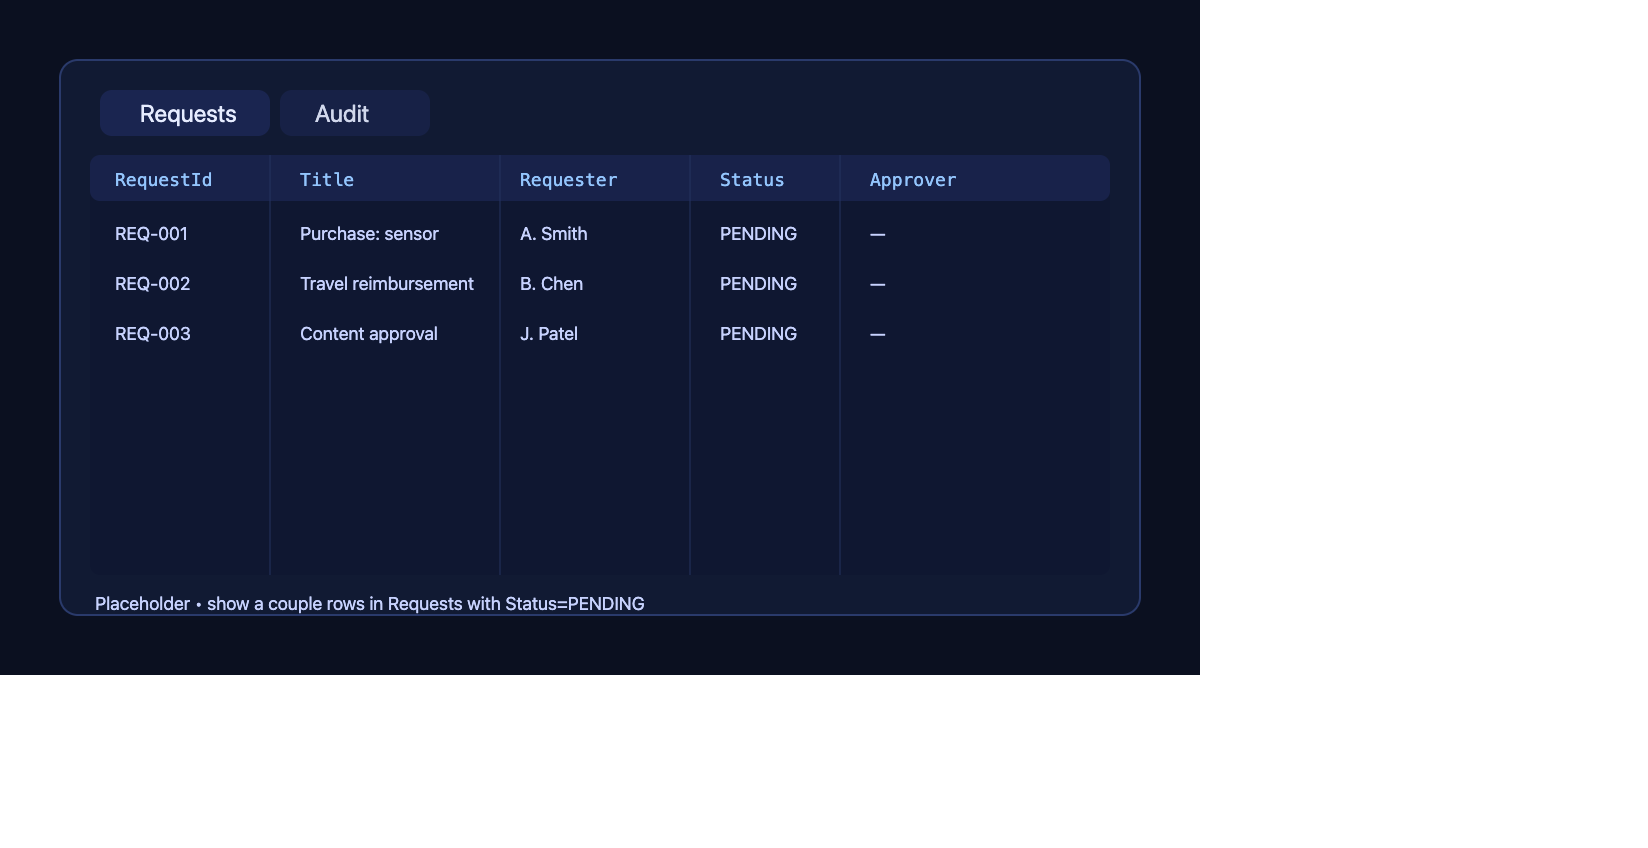
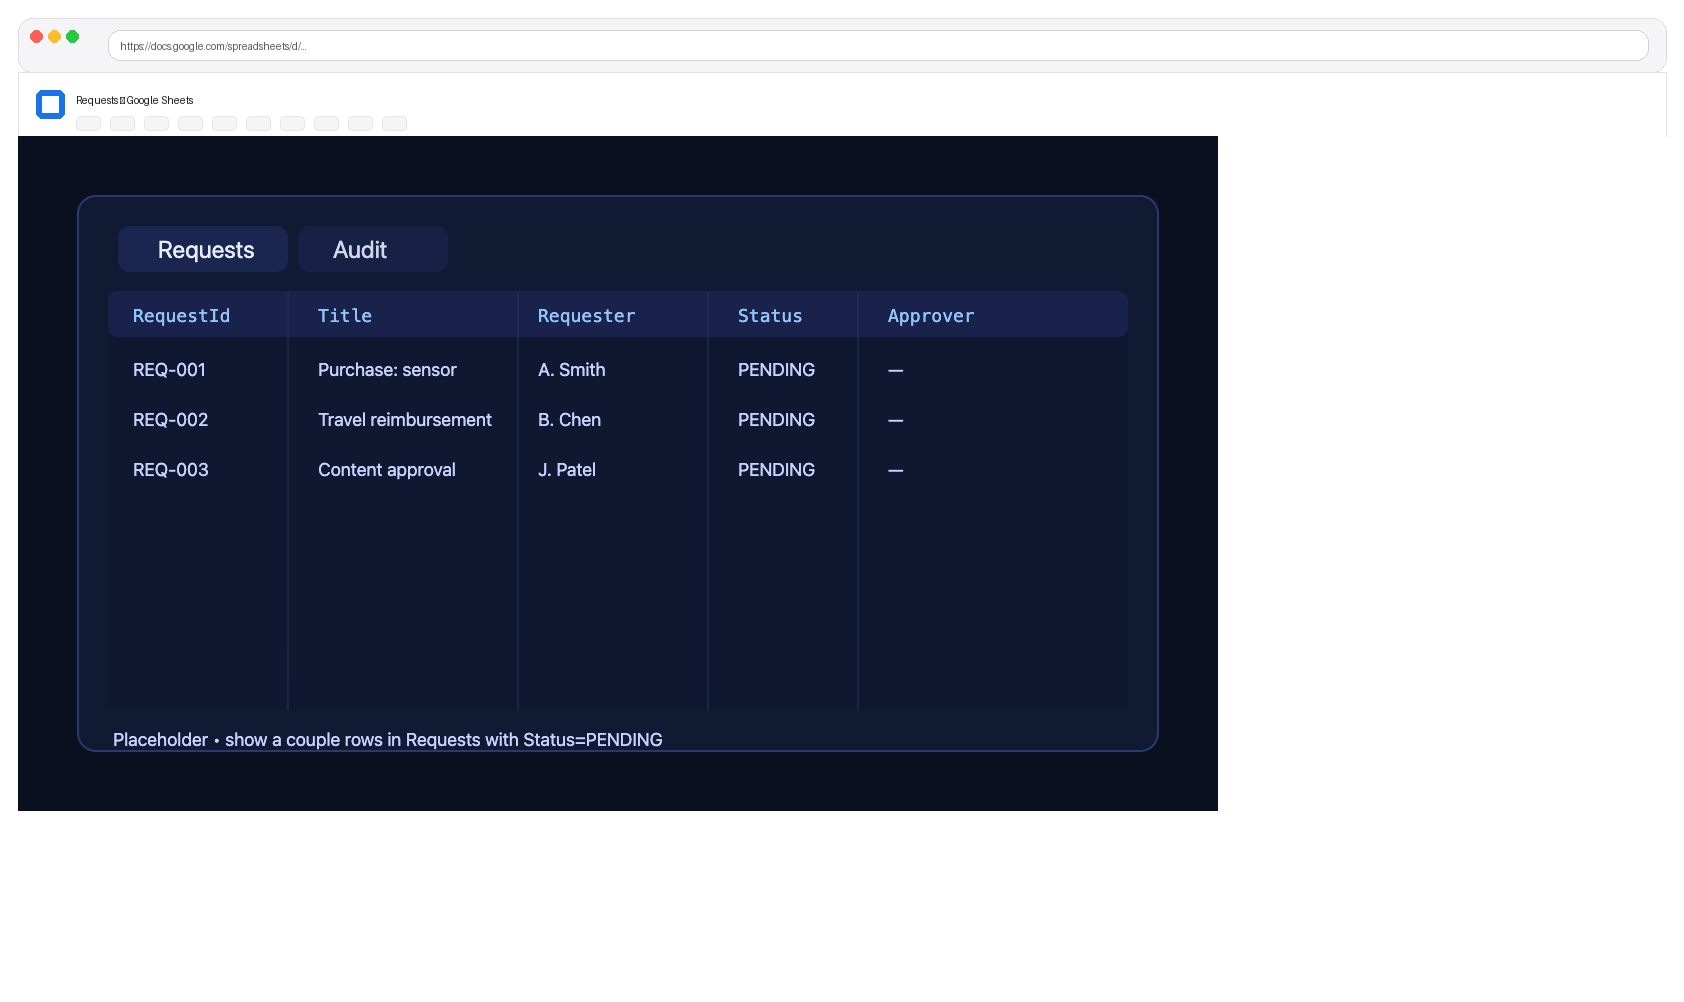
Generate non-placeholder screenshot set (auto)

diff --git a/scripts/generate_realish_screenshots.py b/scripts/generate_realish_screenshots.py
@@ -1,0 +1,147 @@
+#!/usr/bin/env python3
+"""Generate "real-ish" screenshot PNGs from the placeholder PNGs.
+
+Goal: replace docs/screenshots/*.png (which may be placeholder copies) with
+non-identical images that look more like real screenshots, without requiring
+Google login or manual capture.
+
+Approach:
+- Take each placeholder image from docs/screenshots/png/<name>.png
+- Add a simple "browser" chrome + fake Google Sheets toolbar header
+- Write to docs/screenshots/<name>.png
+
+This intentionally makes the top-level PNG hashes differ from the placeholder
+PNGs so `scripts/check_screenshots.py` passes.
+
+Usage:
+  python3 scripts/generate_realish_screenshots.py
+
+Notes:
+- If you later capture true screenshots from Google Sheets, you can overwrite
+  docs/screenshots/<name>.png directly (see REAL_SCREENSHOTS_GUIDE.md).
+"""
+
+from __future__ import annotations
+
+from dataclasses import dataclass
+from pathlib import Path
+
+from PIL import Image, ImageDraw, ImageFont
+
+ROOT = Path(__file__).resolve().parents[1]
+TOP_DIR = ROOT / "docs" / "screenshots"
+PLACEHOLDER_DIR = TOP_DIR / "png"
+
+
+@dataclass(frozen=True)
+class Shot:
+    filename: str
+    sheet_title: str
+
+
+SHOTS: list[Shot] = [
+    Shot("01-menu.png", "Sheets Approvals (Demo)"),
+    Shot("02-requests-pending.png", "Requests"),
+    Shot("03-approved-row.png", "Requests"),
+    Shot("04-audit-entry.png", "Audit"),
+    Shot("05-reapproval-required.png", "Requests"),
+    Shot("06-help-sidebar.png", "Docs / Help"),
+]
+
+
+def main() -> int:
+    TOP_DIR.mkdir(parents=True, exist_ok=True)
+
+    # Fonts: use default bitmap font to avoid system dependencies.
+    font = ImageFont.load_default()
+
+    wrote = 0
+    missing = 0
+
+    for shot in SHOTS:
+        in_path = PLACEHOLDER_DIR / shot.filename
+        out_path = TOP_DIR / shot.filename
+
+        if not in_path.exists():
+            print(f"MISSING: {in_path.relative_to(ROOT)}")
+            missing += 1
+            continue
+
+        base = Image.open(in_path).convert("RGBA")
+
+        # Chrome sizes (in pixels)
+        pad = 18
+        browser_h = 54
+        sheets_h = 64
+        header_h = browser_h + sheets_h
+
+        w, h = base.size
+        canvas = Image.new("RGBA", (w + pad * 2, h + header_h + pad * 2), (255, 255, 255, 255))
+        draw = ImageDraw.Draw(canvas)
+
+        # Browser chrome background
+        draw.rounded_rectangle(
+            (pad, pad, pad + w, pad + browser_h),
+            radius=14,
+            fill=(245, 245, 247, 255),
+            outline=(220, 220, 225, 255),
+            width=1,
+        )
+
+        # macOS traffic-light dots
+        dot_y = pad + 18
+        for i, col in enumerate([(255, 95, 86, 255), (255, 189, 46, 255), (39, 201, 63, 255)]):
+            cx = pad + 18 + i * 18
+            draw.ellipse((cx - 6, dot_y - 6, cx + 6, dot_y + 6), fill=col, outline=None)
+
+        # Address bar
+        ab_x0 = pad + 90
+        ab_x1 = pad + w - 18
+        ab_y0 = pad + 12
+        ab_y1 = pad + browser_h - 12
+        draw.rounded_rectangle(
+            (ab_x0, ab_y0, ab_x1, ab_y1),
+            radius=12,
+            fill=(255, 255, 255, 255),
+            outline=(210, 210, 215, 255),
+            width=1,
+        )
+        addr = "https://docs.google.com/spreadsheets/d/…"
+        draw.text((ab_x0 + 12, ab_y0 + 10), addr, fill=(90, 90, 95, 255), font=font)
+
+        # Fake Sheets toolbar area
+        y2 = pad + browser_h
+        draw.rectangle((pad, y2, pad + w, y2 + sheets_h), fill=(255, 255, 255, 255), outline=(225, 225, 230, 255))
+        # Green Sheets icon
+        icon_x = pad + 18
+        icon_y = y2 + 18
+        draw.rounded_rectangle((icon_x, icon_y, icon_x + 28, icon_y + 28), radius=6, fill=(26, 115, 232, 255))
+        draw.rectangle((icon_x + 6, icon_y + 6, icon_x + 22, icon_y + 22), fill=(255, 255, 255, 255))
+
+        title = f"{shot.sheet_title} — Google Sheets"
+        draw.text((icon_x + 40, y2 + 22), title, fill=(25, 25, 28, 255), font=font)
+
+        # Subtle toolbar hint line (buttons)
+        tool_y = y2 + 44
+        for i in range(10):
+            x0 = icon_x + 40 + i * 34
+            draw.rounded_rectangle((x0, tool_y, x0 + 24, tool_y + 14), radius=4, fill=(245, 245, 247, 255), outline=(230, 230, 235, 255))
+
+        # Paste the content image
+        canvas.alpha_composite(base, (pad, pad + header_h))
+
+        # Save PNG
+        canvas.convert("RGB").save(out_path, format="PNG", optimize=True)
+        wrote += 1
+        print(f"Wrote: {out_path.relative_to(ROOT)}")
+
+    if missing:
+        print(f"\nDone (with missing inputs). wrote={wrote}, missing={missing}")
+        return 2
+
+    print(f"\nDone. wrote={wrote}")
+    return 0
+
+
+if __name__ == "__main__":
+    raise SystemExit(main())

diff --git a/REAL_SCREENSHOTS_GUIDE.md b/REAL_SCREENSHOTS_GUIDE.md
@@ -2,6 +2,8 @@
 
 Goal: replace the placeholder images with **real** screenshots while keeping filenames stable so the landing page and docs don’t need edits.
 
+Note: if you need something that looks non-placeholder *without* signing into Google, you can run `python3 scripts/generate_realish_screenshots.py`. It generates “real‑ish” screenshots by adding simple browser/Sheets chrome around the placeholder images. True Google Sheets captures are still preferred when available.
+
 ## Quick rules (so the shots look clean)
 
 - Use a **fresh demo copy** of the sheet (no client names/data).
